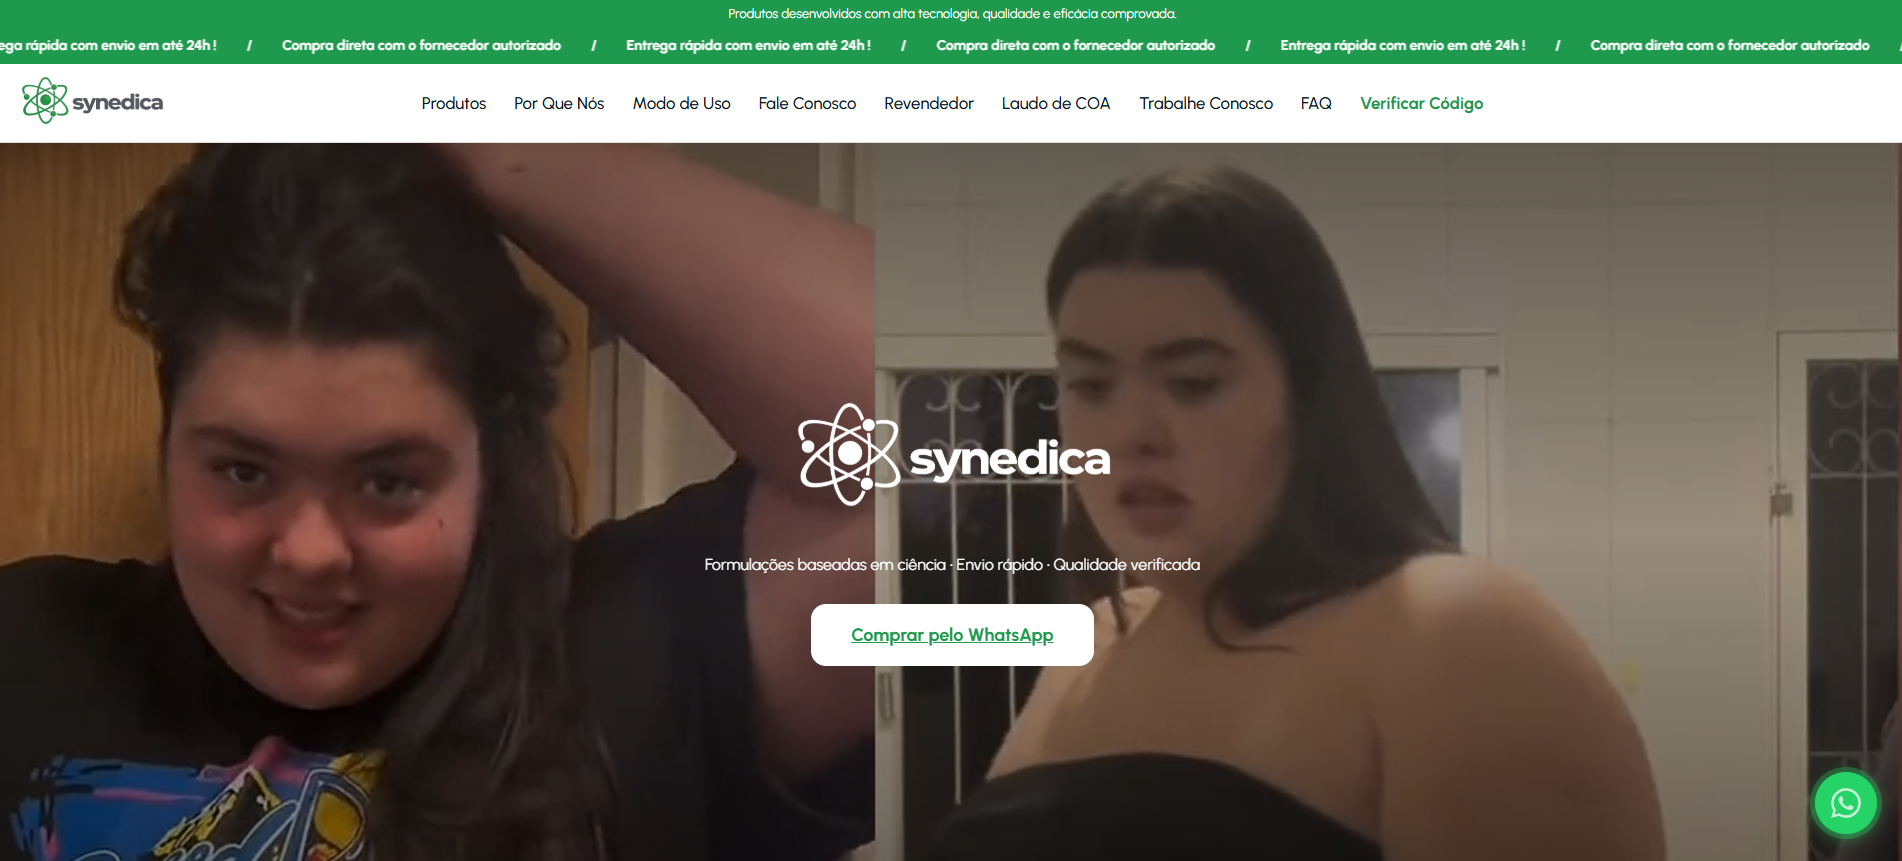
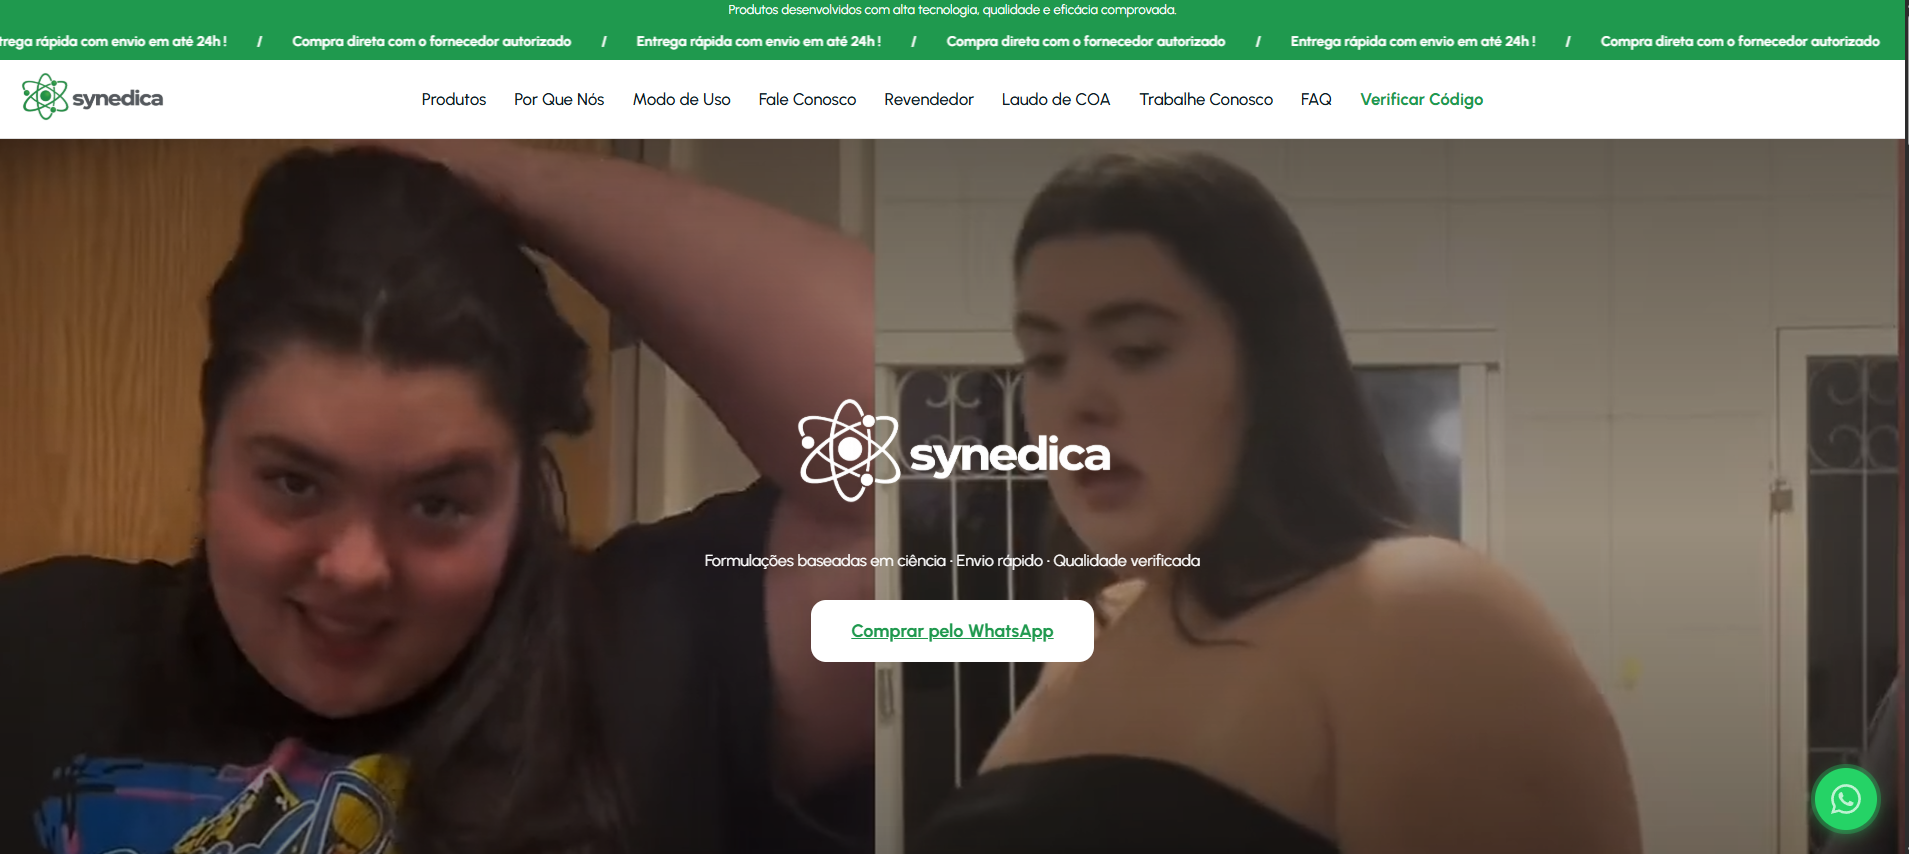
fix: restaura bordas perfeitas do video top:0 com object-position e animacao slideUpTitle fiel ao original

diff --git a/POPUP SYNEDICA/index.html b/POPUP SYNEDICA/index.html
@@ -140,12 +140,12 @@
 
         .bg-video {
             position: absolute;
-            top: 40px;
+            top: 0;
             right: 0;
             width: 55%;
-            height: calc(100% - 40px);
+            height: 100%;
             object-fit: cover;
-            object-position: center 10%;
+            object-position: center 20%;
             z-index: 0;
             pointer-events: none;
             -webkit-mask-image: linear-gradient(to right, transparent 0%, rgba(0,0,0,0.15) 10%, black 30%);
@@ -186,7 +186,7 @@
         .popup-header {
             position: relative;
             z-index: 5;
-            padding: 34px 40px 10px 40px;
+            padding: 36px 40px 10px 40px;
             display: flex;
             align-items: center;
             justify-content: flex-start;
@@ -216,25 +216,24 @@
             z-index: 3;
         }
 
-        @keyframes slideUp {
-            from {
+        @keyframes slideUpTitle {
+            0% {
                 opacity: 0;
-                transform: translateY(28px);
+                transform: translateY(26px);
             }
-            to {
+            100% {
                 opacity: 1;
                 transform: translateY(0);
             }
         }
 
         .headline {
-            font-size: clamp(28px, 3.4vw, 38px);
+            font-size: clamp(28px, 3.5vw, 40px);
             font-weight: 800;
-            line-height: 1.14;
-            color: #1D1D1F;
-            letter-spacing: -0.025em;
-            animation: slideUp 0.65s cubic-bezier(0.16, 1, 0.3, 1) forwards;
-            animation-delay: 0.1s;
+            line-height: 1.1;
+            color: #15181E;
+            letter-spacing: -0.035em;
+            animation: slideUpTitle 0.75s cubic-bezier(0.16, 1, 0.3, 1) 0.08s forwards;
             opacity: 0;
         }
 
@@ -246,15 +245,14 @@
         .subheadline {
             font-size: 15px;
             line-height: 1.5;
-            color: #6E6E73;
-            animation: slideUp 0.65s cubic-bezier(0.16, 1, 0.3, 1) forwards;
-            animation-delay: 0.22s;
+            color: #7E828B;
+            animation: slideUpTitle 0.75s cubic-bezier(0.16, 1, 0.3, 1) 0.2s forwards;
             opacity: 0;
         }
 
         .subheadline strong {
             font-weight: 700;
-            color: #1D1D1F;
+            color: #15181E;
         }
 
         .cta-container {
@@ -263,8 +261,7 @@
             align-items: flex-start;
             gap: 12px;
             margin-top: 4px;
-            animation: slideUp 0.65s cubic-bezier(0.16, 1, 0.3, 1) forwards;
-            animation-delay: 0.34s;
+            animation: slideUpTitle 0.75s cubic-bezier(0.16, 1, 0.3, 1) 0.32s forwards;
             opacity: 0;
         }
 
@@ -486,8 +483,8 @@
                 <div class="popup-content-left">
                     <h2 class="headline" id="popup-title">
                         Emagreça até<br>
-                        <span class="highlight">24% de gordura<br>
-                        corporal</span> em 3<br>
+                        <span class="highlight">24% de gordura</span><br>
+                        <span class="highlight">corporal</span> em 3<br>
                         meses
                     </h2>
 

diff --git a/index.html b/index.html
@@ -140,12 +140,12 @@
 
         .bg-video {
             position: absolute;
-            top: 40px;
+            top: 0;
             right: 0;
             width: 55%;
-            height: calc(100% - 40px);
+            height: 100%;
             object-fit: cover;
-            object-position: center 10%;
+            object-position: center 20%;
             z-index: 0;
             pointer-events: none;
             -webkit-mask-image: linear-gradient(to right, transparent 0%, rgba(0,0,0,0.15) 10%, black 30%);
@@ -186,7 +186,7 @@
         .popup-header {
             position: relative;
             z-index: 5;
-            padding: 34px 40px 10px 40px;
+            padding: 36px 40px 10px 40px;
             display: flex;
             align-items: center;
             justify-content: flex-start;
@@ -216,25 +216,24 @@
             z-index: 3;
         }
 
-        @keyframes slideUp {
-            from {
+        @keyframes slideUpTitle {
+            0% {
                 opacity: 0;
-                transform: translateY(28px);
+                transform: translateY(26px);
             }
-            to {
+            100% {
                 opacity: 1;
                 transform: translateY(0);
             }
         }
 
         .headline {
-            font-size: clamp(28px, 3.4vw, 38px);
+            font-size: clamp(28px, 3.5vw, 40px);
             font-weight: 800;
-            line-height: 1.14;
-            color: #1D1D1F;
-            letter-spacing: -0.025em;
-            animation: slideUp 0.65s cubic-bezier(0.16, 1, 0.3, 1) forwards;
-            animation-delay: 0.1s;
+            line-height: 1.1;
+            color: #15181E;
+            letter-spacing: -0.035em;
+            animation: slideUpTitle 0.75s cubic-bezier(0.16, 1, 0.3, 1) 0.08s forwards;
             opacity: 0;
         }
 
@@ -246,15 +245,14 @@
         .subheadline {
             font-size: 15px;
             line-height: 1.5;
-            color: #6E6E73;
-            animation: slideUp 0.65s cubic-bezier(0.16, 1, 0.3, 1) forwards;
-            animation-delay: 0.22s;
+            color: #7E828B;
+            animation: slideUpTitle 0.75s cubic-bezier(0.16, 1, 0.3, 1) 0.2s forwards;
             opacity: 0;
         }
 
         .subheadline strong {
             font-weight: 700;
-            color: #1D1D1F;
+            color: #15181E;
         }
 
         .cta-container {
@@ -263,8 +261,7 @@
             align-items: flex-start;
             gap: 12px;
             margin-top: 4px;
-            animation: slideUp 0.65s cubic-bezier(0.16, 1, 0.3, 1) forwards;
-            animation-delay: 0.34s;
+            animation: slideUpTitle 0.75s cubic-bezier(0.16, 1, 0.3, 1) 0.32s forwards;
             opacity: 0;
         }
 
@@ -486,8 +483,8 @@
                 <div class="popup-content-left">
                     <h2 class="headline" id="popup-title">
                         Emagreça até<br>
-                        <span class="highlight">24% de gordura<br>
-                        corporal</span> em 3<br>
+                        <span class="highlight">24% de gordura</span><br>
+                        <span class="highlight">corporal</span> em 3<br>
                         meses
                     </h2>
 
